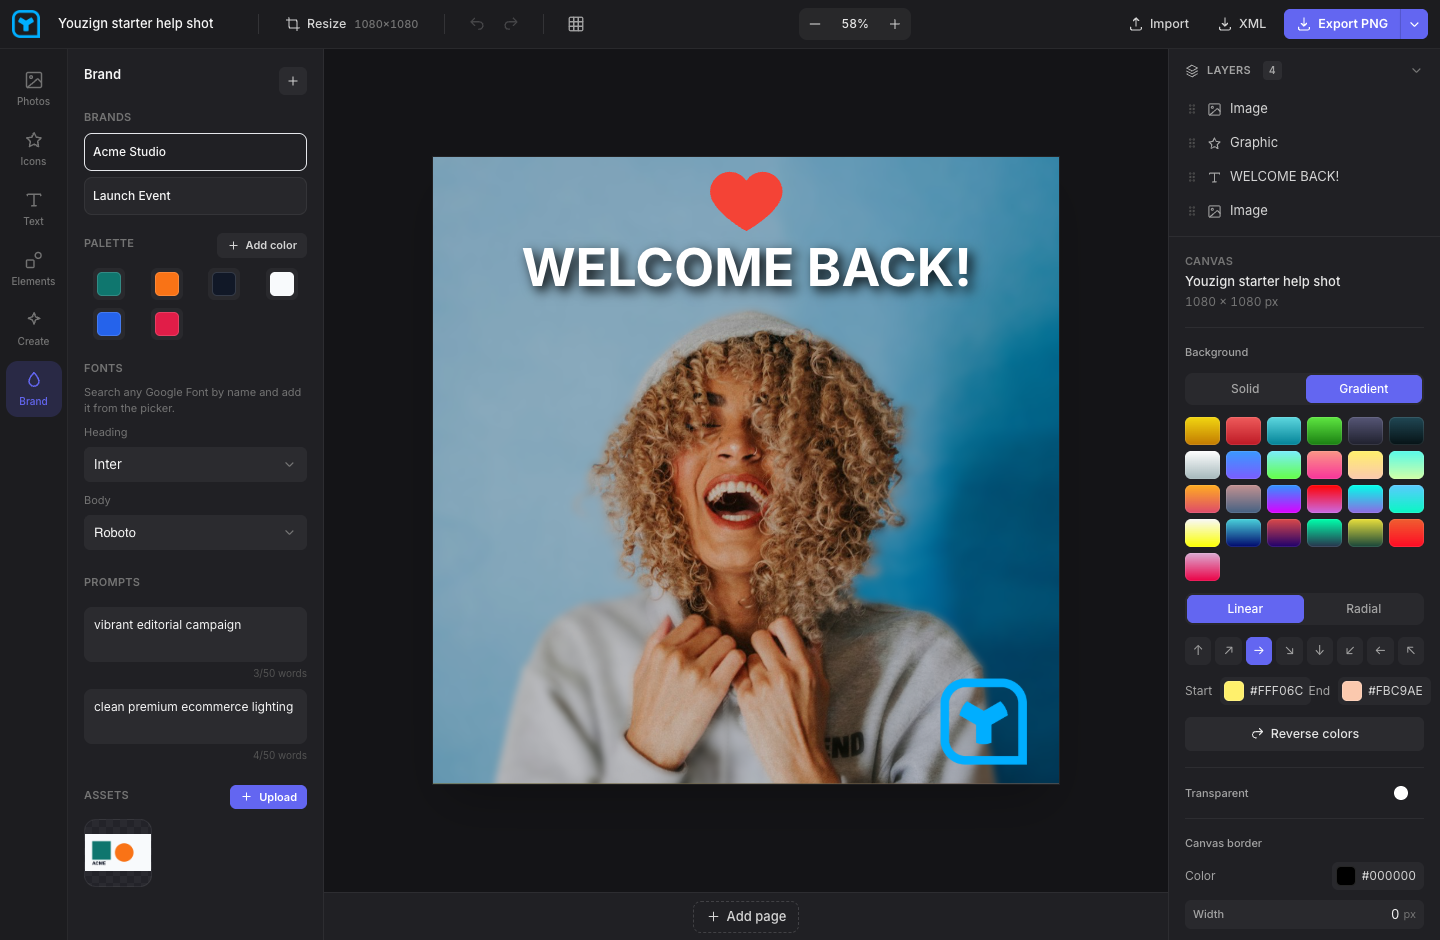
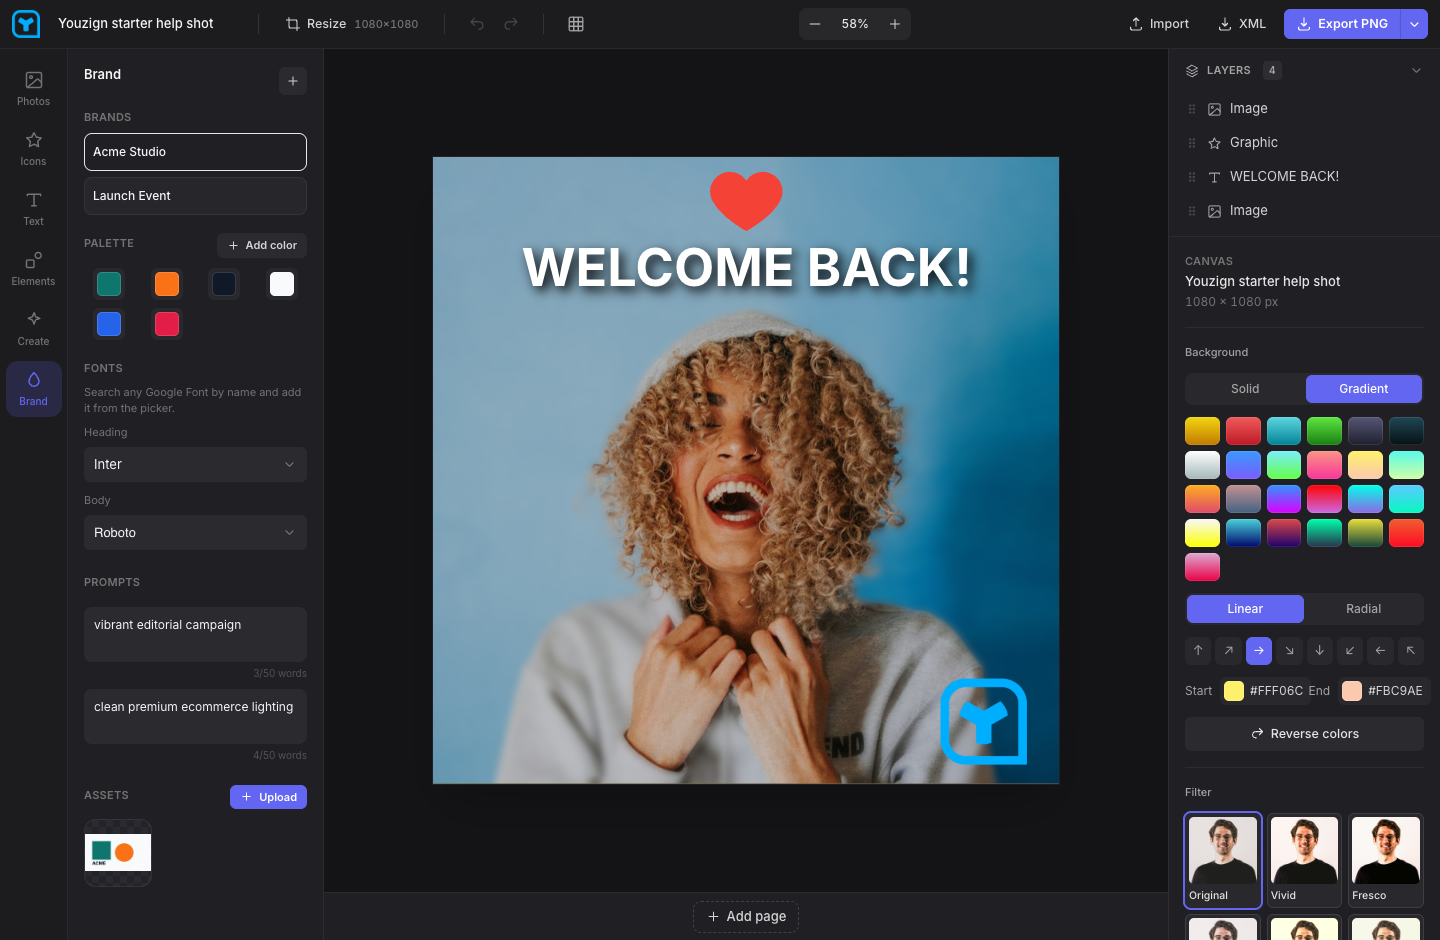
Filter tiles use demo portrait; help shots add Filters section
Preset thumbnails render /demo-portrait.jpg (sample-photo.png is a
transparency test pattern). help-shots.mjs gains makeFiltersShot
(starter design + Golden preset + warmth 20); all help shots regenerated.

Claude-Session: https://claude.ai/code/session_01FHkcM27YZqpKqGuaQKU9e4

Changed region(s): [[0.8125, 0.833, 1.0, 1.0]]

diff --git a/apps/editor/src/components/PropertiesPanel.tsx b/apps/editor/src/components/PropertiesPanel.tsx
@@ -759,7 +759,7 @@ function CanvasPanel() {
               className="rounded-md bg-white/[0.04] p-1 text-left ring-2 ring-[var(--accent)] transition-colors duration-150 hover:bg-white/[0.08]"
             >
               <span className="relative block aspect-square overflow-hidden rounded-[5px] bg-neutral-800">
-                <img src="/sample-photo.png" alt="" className="h-full w-full object-cover" style={filterThumbStyle(activeFilterId)} />
+                <img src="/demo-portrait.jpg" alt="" className="h-full w-full object-cover" style={filterThumbStyle(activeFilterId)} />
                 {filterThumbOverlay(activeFilterId)}
               </span>
               <span className="mt-1 block truncate text-[10.5px] font-medium text-neutral-100">
@@ -776,7 +776,7 @@ function CanvasPanel() {
             }`}
           >
             <span className="relative block aspect-square overflow-hidden rounded-[5px] bg-neutral-800">
-              <img src="/sample-photo.png" alt="" className="h-full w-full object-cover" />
+              <img src="/demo-portrait.jpg" alt="" className="h-full w-full object-cover" />
             </span>
             <span className="mt-1 block truncate text-[10.5px] font-medium text-neutral-200">Original</span>
           </button>
@@ -793,7 +793,7 @@ function CanvasPanel() {
                 }`}
               >
                 <span className="relative block aspect-square overflow-hidden rounded-[5px] bg-neutral-800">
-                  <img src="/sample-photo.png" alt="" className="h-full w-full object-cover" style={filterThumbStyle(id)} />
+                  <img src="/demo-portrait.jpg" alt="" className="h-full w-full object-cover" style={filterThumbStyle(id)} />
                   {filterThumbOverlay(id)}
                 </span>
                 <span className="mt-1 block truncate text-[10.5px] font-medium text-neutral-200">{FILTER_NAMES[id]}</span>
